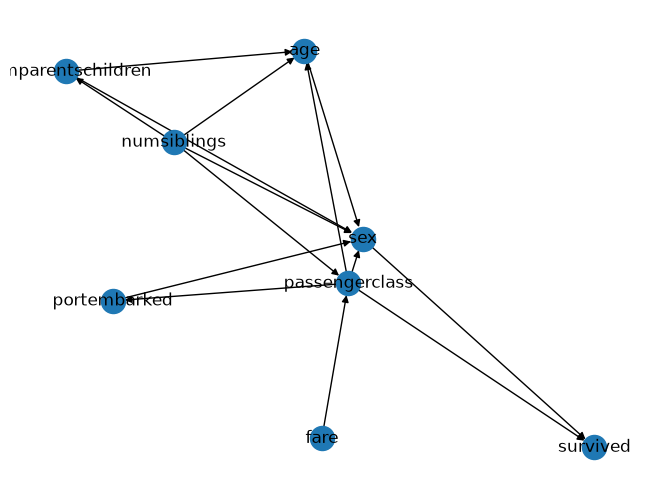
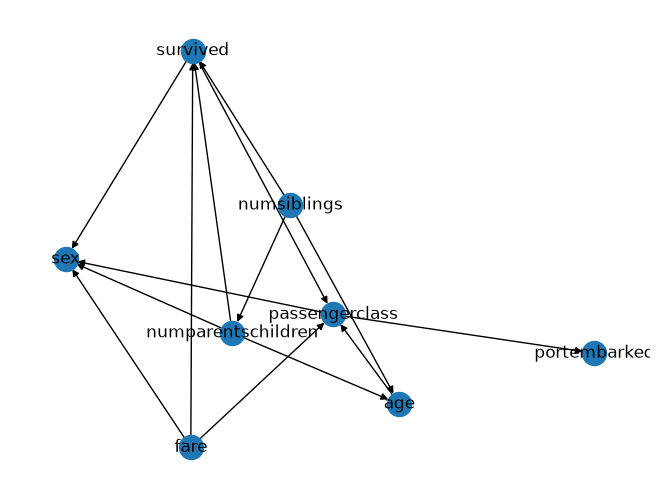
removed unnecessary member from Variable struct

diff --git a/project1/project1.py b/project1/project1.py
@@ -9,8 +9,7 @@ import matplotlib.pyplot as plt
 import time
 
 class Variable:
-    def __init__(self, name, max_val):
-        self.name = name
+    def __init__(self, max_val):
         self.max_val = max_val
 
 def write_gph(dag, idx2names, filename):
@@ -39,7 +38,7 @@ def get_file_info(infile):
     for var_idx in range(n):
         col = [data[i][var_idx] for i in range(num_data_points)]
         max_val = max(col)
-        vars.append(Variable(header[var_idx], max_val))
+        vars.append(Variable(max_val))
 
     # Create an inital graph, start with no edges
     inital_G = nx.DiGraph()
